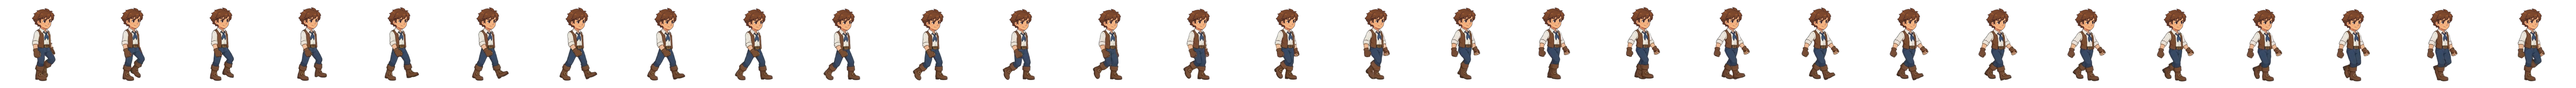
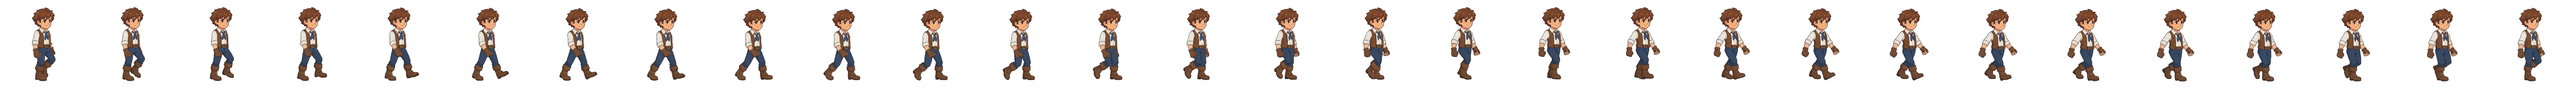
Arthur walk: clean Sprixen matte, no hair warp
- collar: see-through patches under the chin are filled from the approved sprite
- pale haze between arm and body (cool/greenish white left by background
  removal) is cleared; the warm shirt is untouched
- far arm's partly see-through pixels made solid
- hair bounce turned off (hair_gain 0) pending a better approach

Claude-Session: https://claude.ai/code/session_01BTTj8a1B5QVYLgtfGJQMDk

diff --git a/tools/sprixen/lock_head.py b/tools/sprixen/lock_head.py
@@ -16,6 +16,9 @@ usage: python3 lock_head.py <sheet.png> <base_sprite.png> <out_sheet.png> [cycle
 import sys
 import numpy as np
 from PIL import Image
+from scipy import ndimage
+
+ALPHA_CUT = 60    # Sprixen leaves the far arm partly see-through: anything above this counts as solid
 
 SRC = 256
 # rows of the approved base sprite (arthur_v1_base.png)
@@ -126,6 +129,36 @@ def main():
         rgb = (src[:, :, :3] * sa + dst[:, :, :3] * da * (1 - sa)) / np.maximum(oa, 1e-6)
         f[ya:yb, xa:xb, :3] = rgb
         f[ya:yb, xa:xb, 3:4] = oa * 255
+        # clean the matte: haze (e.g. pale film between arm and body) -> clear, near-solid -> solid
+        solid = f[:, :, 3] >= ALPHA_CUT
+        f[:, :, 3] = np.where(solid, 255, 0)
+        # pale haze left by background removal (e.g. between the arm and body) is a cool,
+        # bluish/greenish white; Arthur's shirt and skin are warm (red highest), so cool light pixels go
+        rgb_ = f[:, :, :3]
+        haze = solid & (rgb_.min(2) > 140) & (rgb_[:, :, 0] < np.maximum(rgb_[:, :, 1], rgb_[:, :, 2]) - 2)
+        solid &= ~haze
+        f[:, :, 3] = np.where(solid, 255, 0)
+        # holes just under the chin (see-through collar) -> fill from the approved sprite's collar
+        holes, nh = ndimage.label(ndimage.binary_fill_holes(solid) & ~solid)
+        bx, by = x0 - hx0, y0 - HEAD_TOP          # frame = base shifted by (bx, by)
+        chin = y0 + hh
+        for lab in range(1, nh + 1):
+            ys, xs = np.where(holes == lab)
+            if not (chin - 20 <= ys.mean() <= chin + 30) or len(ys) > 600:
+                continue                           # only the collar; real gaps elsewhere stay open
+            sy, sx = ys - by, xs - bx
+            ok = (sy >= 0) & (sy < SRC) & (sx >= 0) & (sx < SRC)
+            src_px = np.zeros((len(ys), 4), np.float32)
+            src_px[ok] = base[sy[ok], sx[ok]]
+            use = src_px[:, 3] > 128
+            f[ys[use], xs[use], :3] = src_px[use, :3]
+            f[ys[use], xs[use], 3] = 255
+            # anything the base doesn't cover: nearest solid neighbour colour
+            rest = ~use
+            if rest.any():
+                _, (iy, ix) = ndimage.distance_transform_edt(f[:, :, 3] < 255, return_indices=True)
+                f[ys[rest], xs[rest], :3] = f[iy[ys[rest], xs[rest]], ix[ys[rest], xs[rest]], :3]
+                f[ys[rest], xs[rest], 3] = 255
         out.paste(Image.fromarray(np.clip(f, 0, 255).astype(np.uint8)), (i * SRC, 0))
     out.save(out_path)
     print("head y raw", pos[:, 1].astype(int).tolist())
